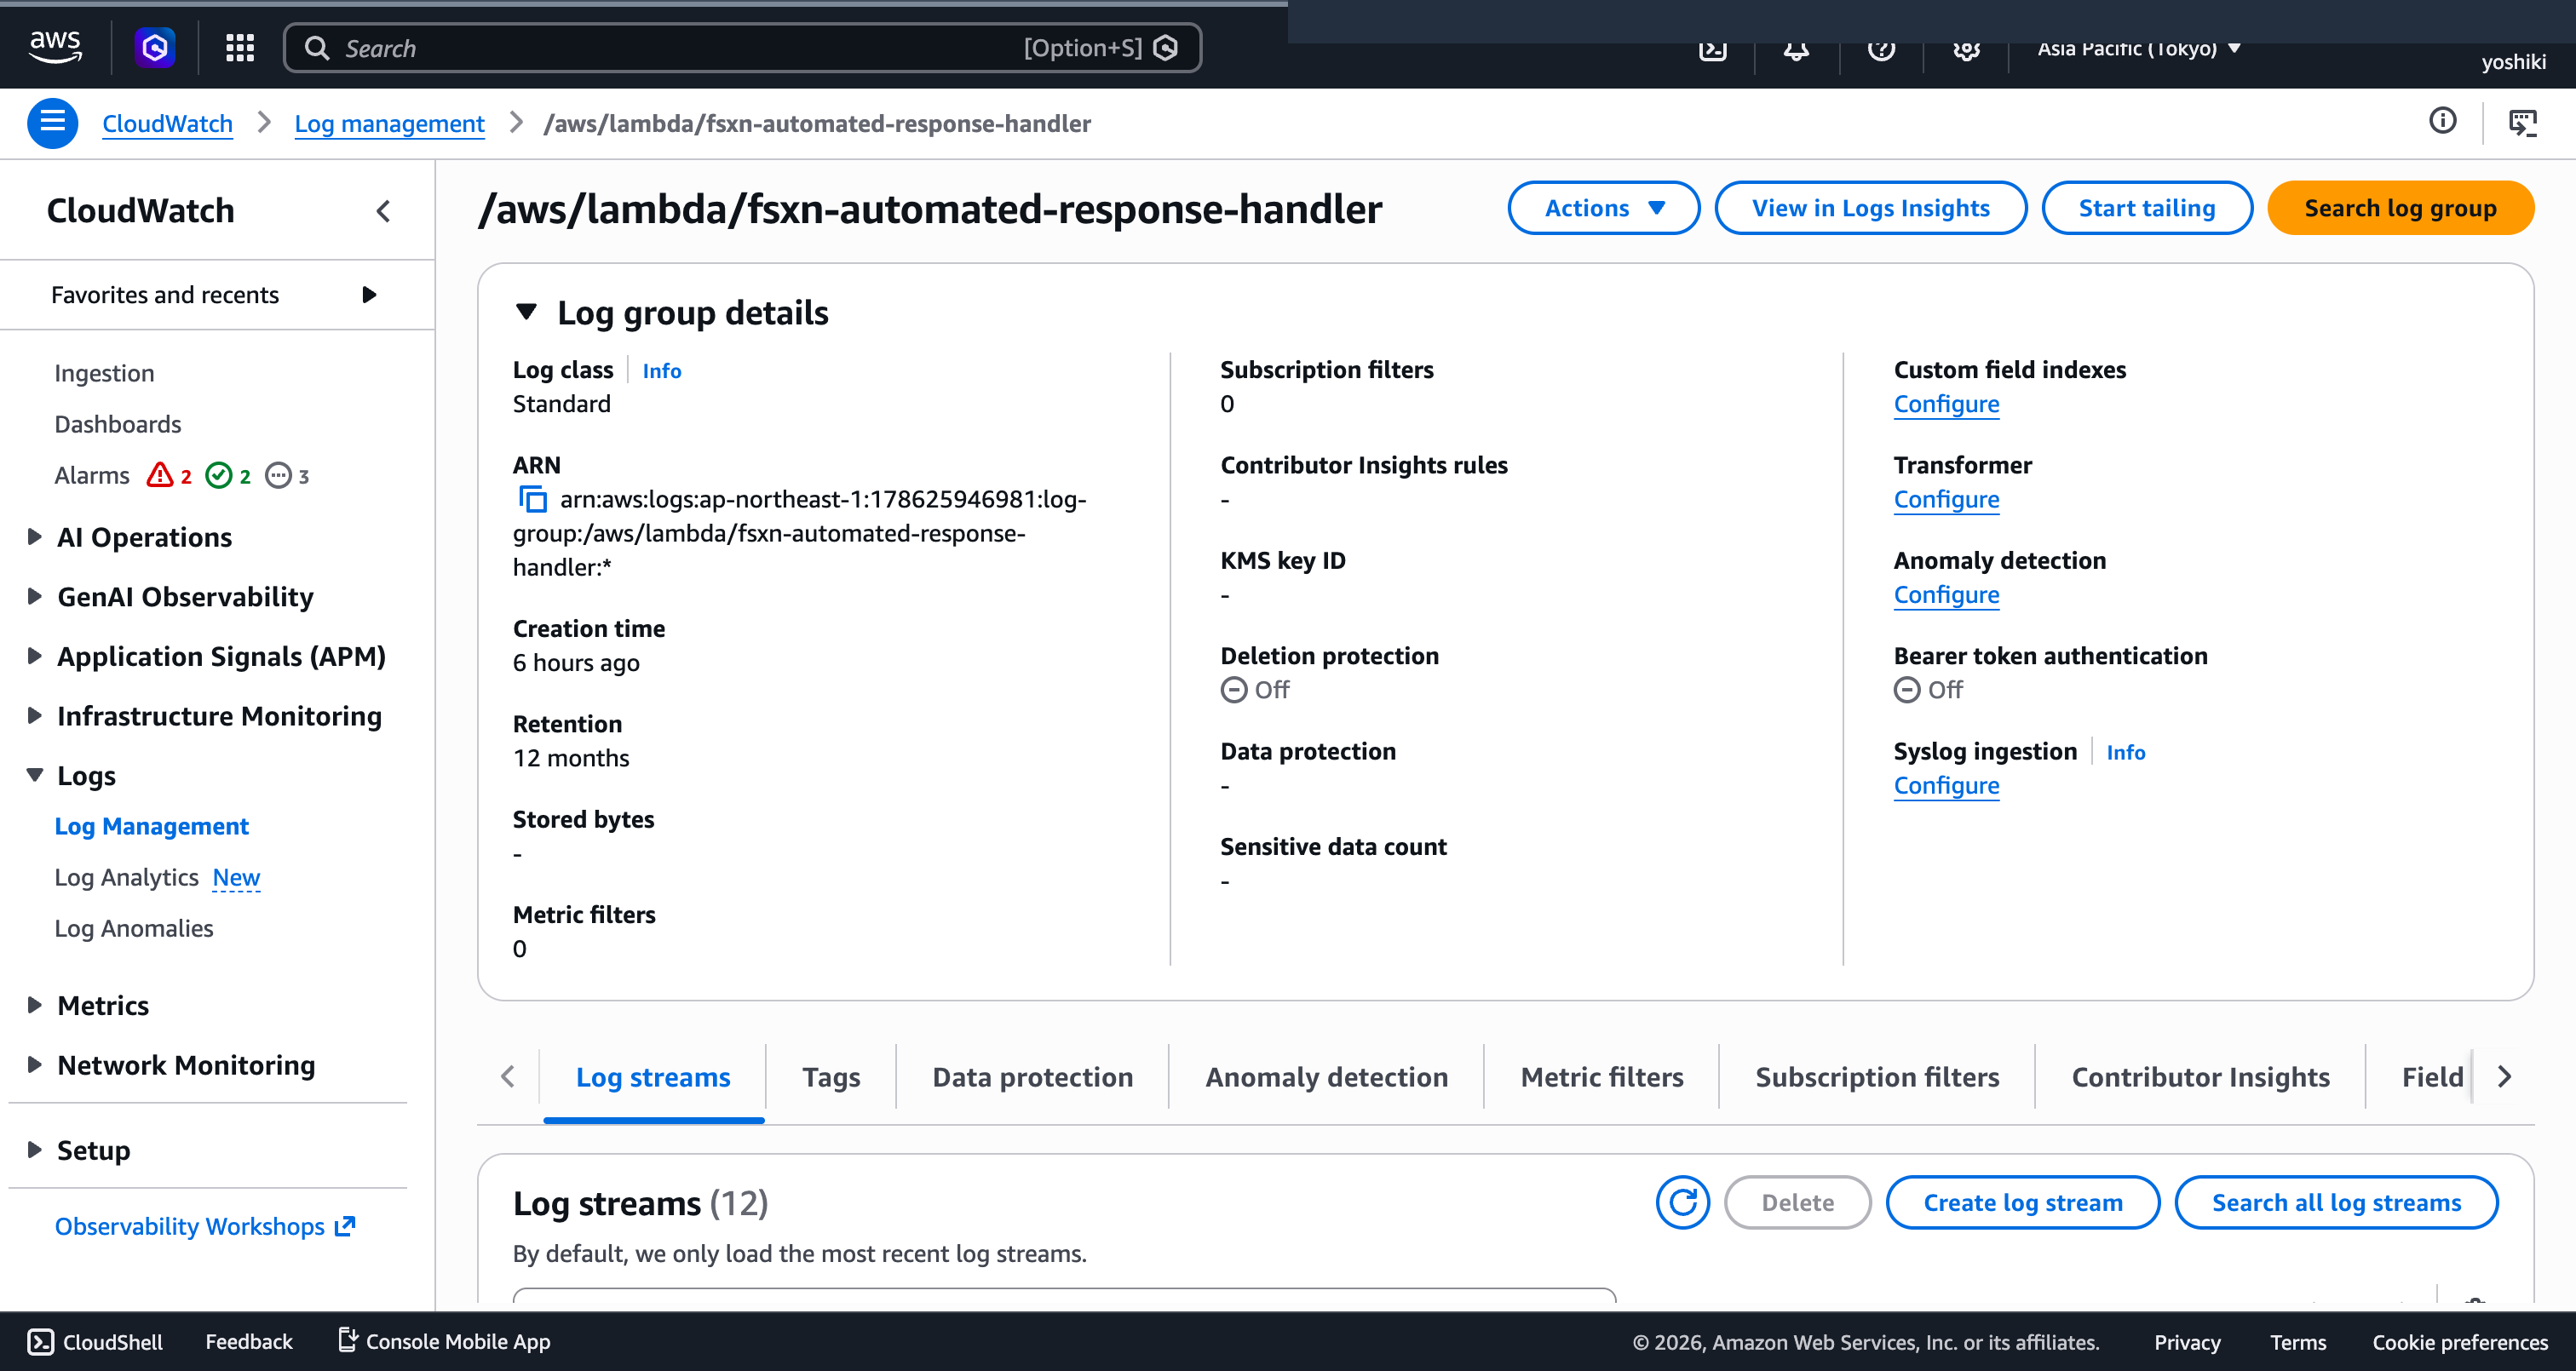
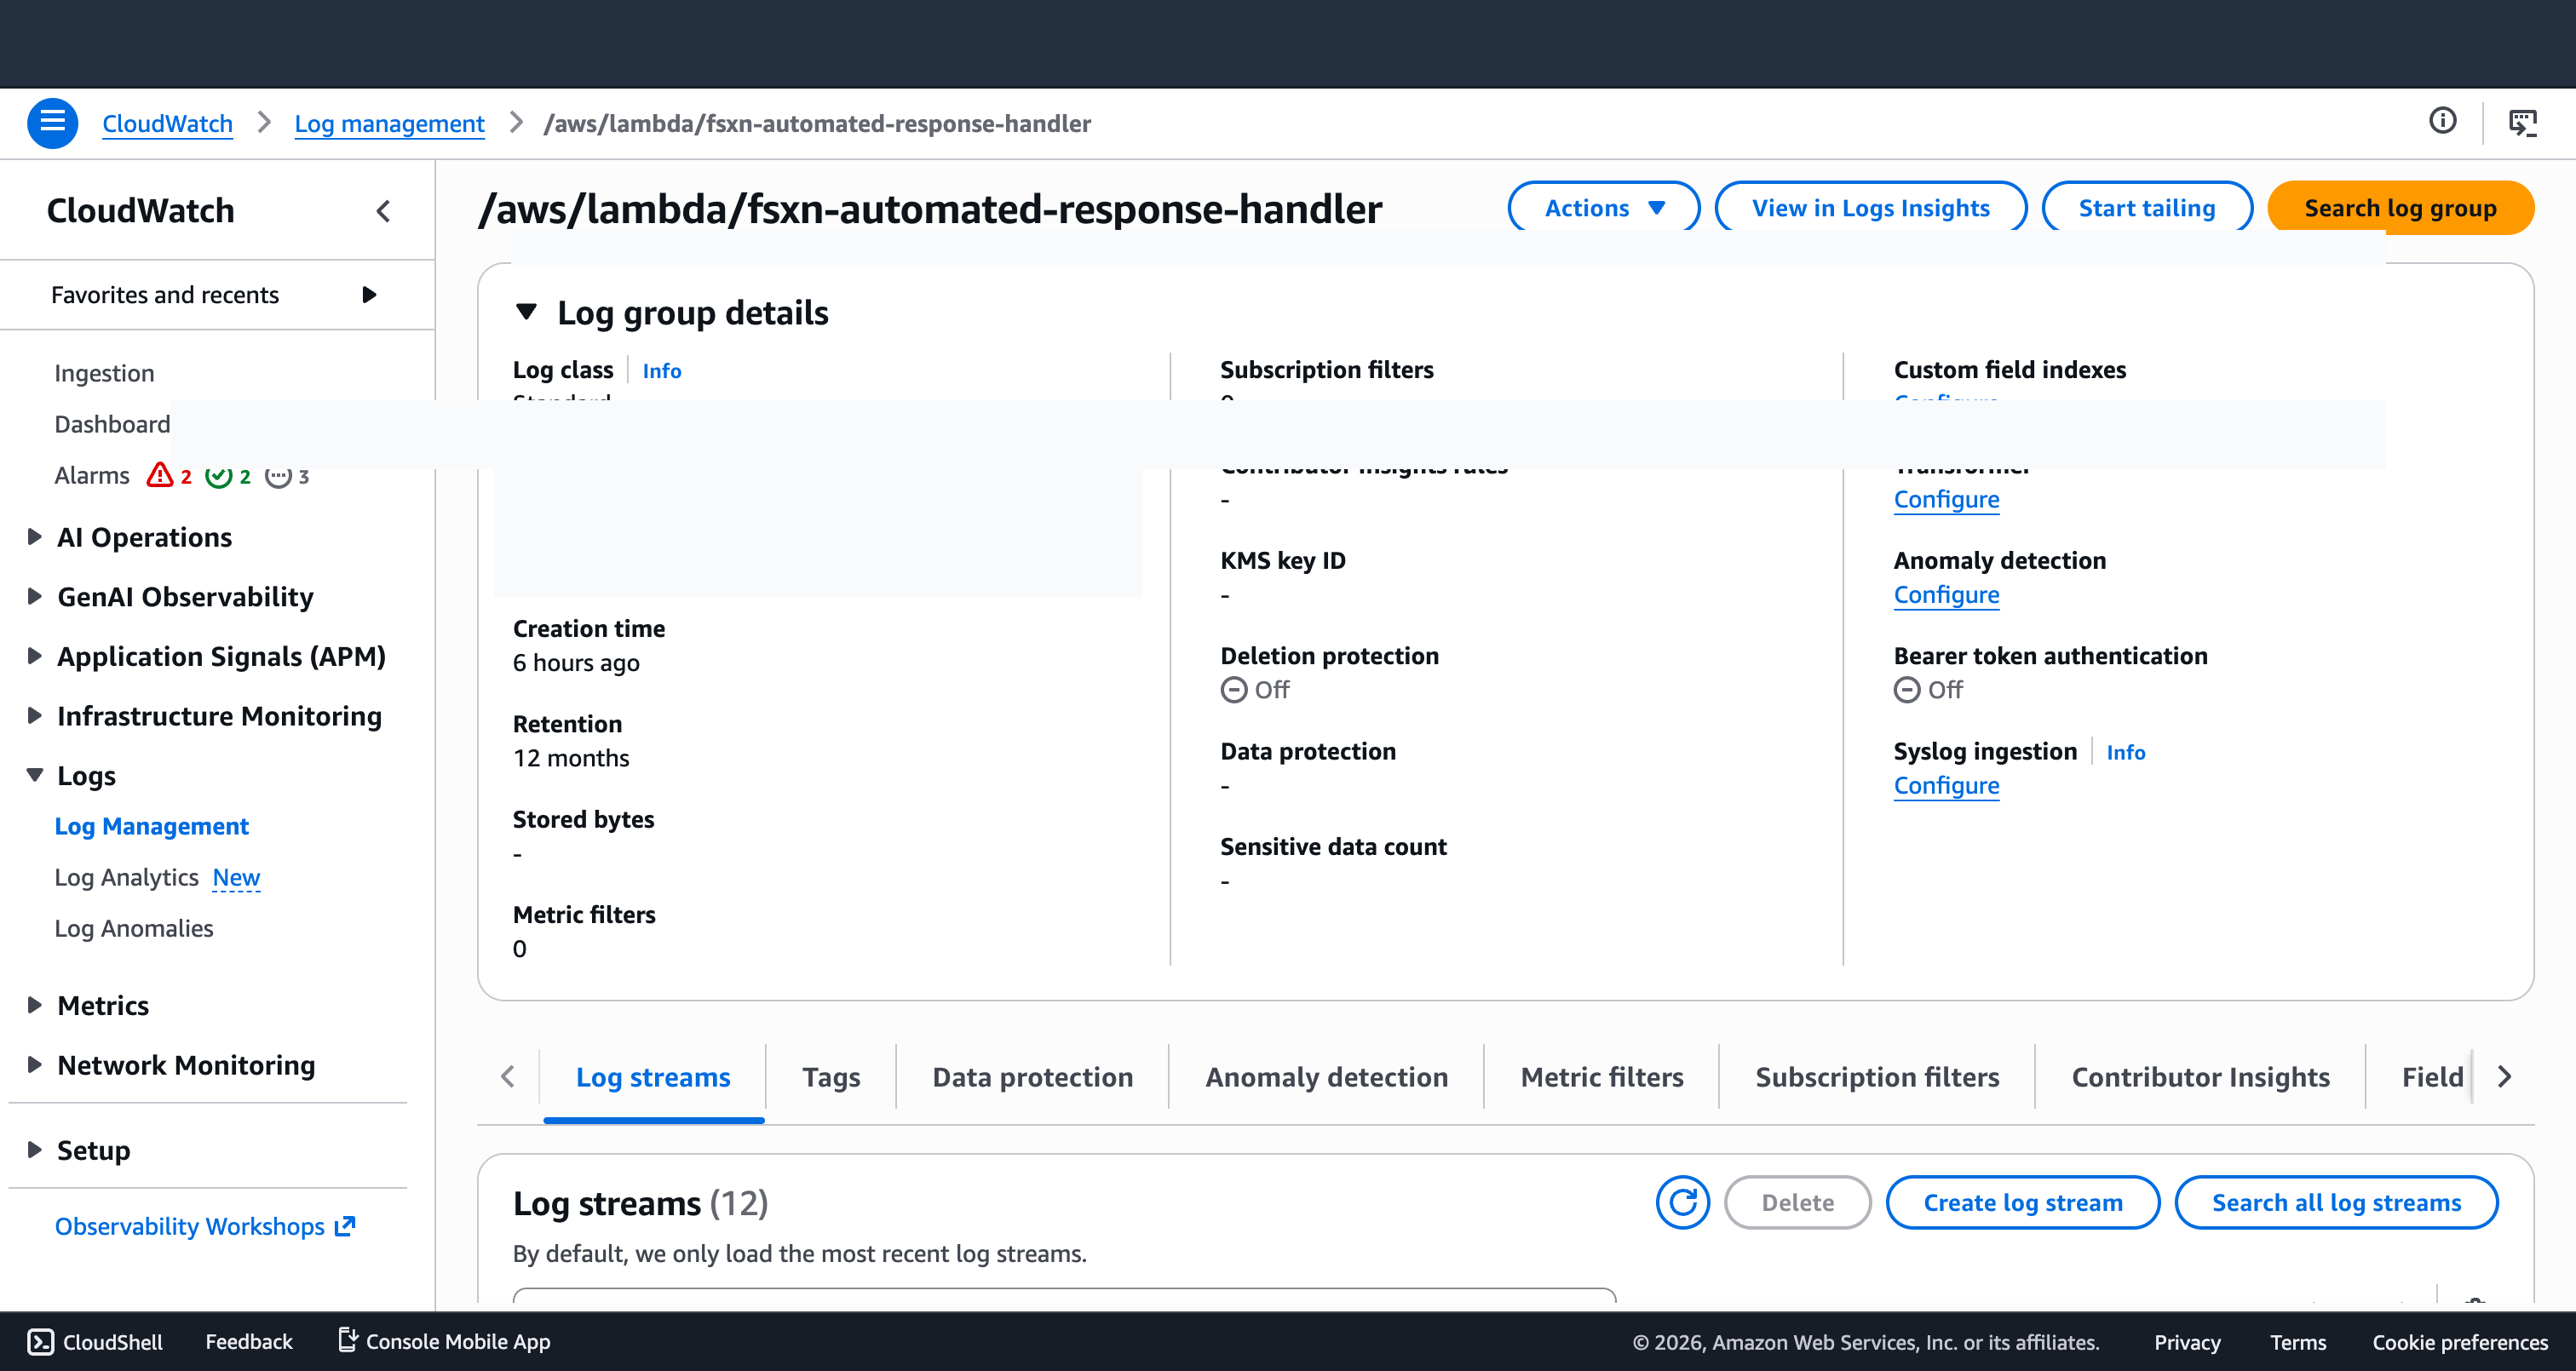
fix: improve screenshot masking, remove unusable screenshots - Fix account ID masking in 03-lambda (ARN area) and 04-cloudwatch (ARN field) - Remove 02-vpc-endpoints.png (masked to point of being unreadable) - Remove 16-fsx-volumes-list.png (FSx console iframe didn't load) - Add CLI evidence to e2e-

diff --git a/docs/screenshots/automated-response/e2e-verification-results.md b/docs/screenshots/automated-response/e2e-verification-results.md
@@ -55,6 +55,43 @@
 | Cold start (VPC Lambda) | ~320ms | < 5s |
 | All actions complete within | 120s timeout | No timeout |
 
+## CLI Evidence (replaces console screenshots where masking issues exist)
+
+### VPC Endpoints (Available)
+
+```
+$ aws ec2 describe-vpc-endpoints --filters "Name=vpc-id,Values=vpc-05192d06e1e91d756" \
+    --query 'VpcEndpoints[].{Service:ServiceName,Type:VpcEndpointType,State:State}' \
+    --output table
+
++-------------------------------------------+------------+-------------+
+|                  Service                  |   State    |    Type     |
++-------------------------------------------+------------+-------------+
+|  com.amazonaws.ap-northeast-1.s3          |  available |  Gateway    |
+|  com.amazonaws.ap-northeast-1.ssm         |  available |  Interface  |
+|  com.amazonaws.ap-northeast-1.ssmmessages |  available |  Interface  |
+|  com.amazonaws.ap-northeast-1.ec2messages |  available |  Interface  |
+|  com.amazonaws.ap-northeast-1.secretsmanager | available | Interface |
+|  com.amazonaws.ap-northeast-1.sns         |  available |  Interface  |
++-------------------------------------------+------------+-------------+
+```
+
+### FSx for ONTAP Volumes
+
+```
+$ aws fsx describe-volumes --filters Name=file-system-id,Values=fs-002ec851eba809979 \
+    --query 'Volumes[].{Name:Name,Id:VolumeId}' --output table
+
++--------------------------------------------------+---------------------+
+|                        Id                        |        Name         |
++--------------------------------------------------+---------------------+
+|  fsvol-0183178c8b9ec5392                         |  vol1               |
+|  fsvol-03476bedce8e1d0da                         |  fsxsvm01_root      |
+|  fsvol-0dd4e8f7e2527299e                         |  testvol01          |
+|  ...                                             |  (12 volumes total) |
++--------------------------------------------------+---------------------+
+```
+
 ## Lessons Learned (Reflected in Docs/CFn)
 
 1. **VPC Lambda needs VPC Endpoints** -- Added to CFn template (CreateVpcEndpoints param)